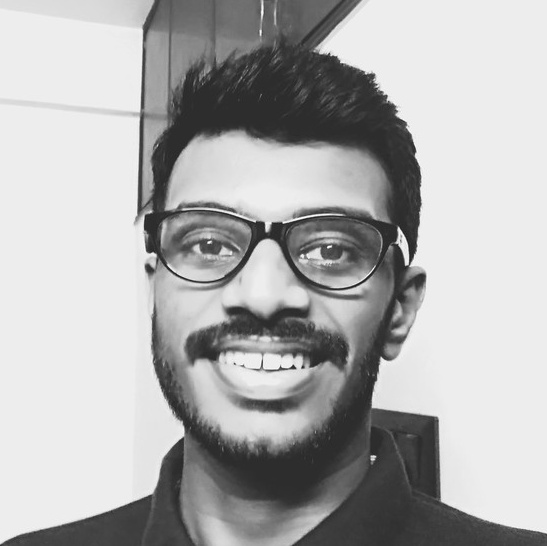
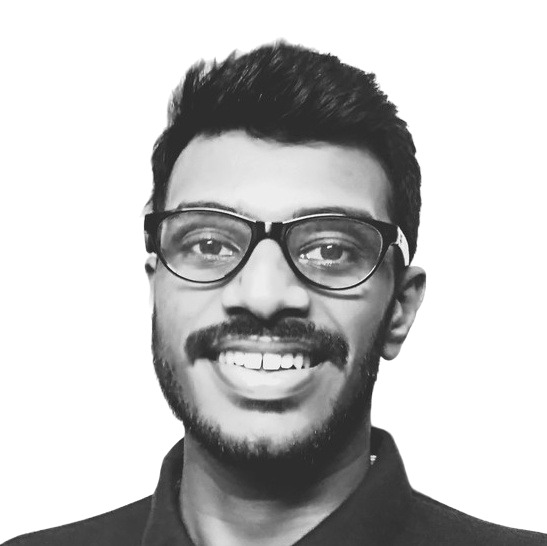
Update website

diff --git a/index.html b/index.html
@@ -1,13 +1,34 @@
 <!DOCTYPE HTML>
 <html lang="en"><head><meta http-equiv="Content-Type" content="text/html; charset=UTF-8">
 
-  <title>Perla Sai Raj Kishore</title>
+  <title>Sai Raj Kishore Perla</title>
   
-  <meta name="author" content="Perla Sai Raj Kishore">
+  <meta name="author" content="Sai Raj Kishore Perla">
   <meta name="viewport" content="width=device-width, initial-scale=1">
   
   <link rel="stylesheet" type="text/css" href="stylesheet.css">
   <link rel="icon" type="image/png" href="images/icon.jpg">
+
+  <!-- Google tag (gtag.js) -->
+  <script async src="https://www.googletagmanager.com/gtag/js?id=G-MSMRCN9C0E"></script>
+  <script>
+    window.dataLayer = window.dataLayer || [];
+    function gtag(){dataLayer.push(arguments);}
+    gtag('js', new Date());
+
+    gtag('config', 'G-MSMRCN9C0E');
+  </script>
+
+  <script>
+    function myFunction(pub_name) {
+        var x = document.getElementById(pub_name);
+        if (x.style.display === 'none') {
+            x.style.display = 'block';
+        } else {
+            x.style.display = 'none';
+        }
+  }
+  </script>
 </head>
 
 <body>
@@ -18,29 +39,30 @@
           <tr style="padding:0px">
             <td style="padding:2.5%;width:63%;vertical-align:middle">
               <p style="text-align:center">
-                <name>Perla Sai Raj Kishore</name>
+                <name>Sai Raj Kishore Perla</name>
                 <br>
-                <font size="3"><br/>Learning to teach machines how to learn.</font>
+                <font size="3"><br/><i>Learning to teach machines how to learn</i></font>
               </p>
               <br/>
               <p align="justify"><font size="3">
-              I am a Master's student at the <a href="https://www.sfu.ca/computing.html" target="_blank"><font size="3">School of Computing Science</font></a>, Simon Fraser University (SFU).
+                I am a Computer Science PhD student at <a href="https://www.sfu.ca/" target="_blank"><font size="3">Simon Fraser University (SFU)</font></a>, supervised by <a href="https://www.cs.sfu.ca/~haoz/" target="_blank"><font size="3">Prof. Hao (Richard) Zhang</font></a> and <a href="https://www.sfu.ca/~amahdavi/Home.html" target="_blank"><font size="3">Prof. Ali Mahdavi-Amiri</font></a>.
+                I also completed my MSc (Thesis) in Computer Science under <a href="https://www.cs.sfu.ca/~haoz/" target="_blank"><font size="3">Prof. Hao (Richard) Zhang</font></a> at SFU.
               </font></p>
               <p align="justify"><font size="3">
-              Before joining SFU, I worked as a Senior Research Engineer at <a href="https://www.staqu.com/" target="_blank"><font size="3">Staqu Technologies</font></a>, where I designed and developed systems that revolved around Computer Vision and Deep Learning. And even earlier, during my bachelor's, I worked with <a href="https://www.isical.ac.in/~ujjwal/" target="_blank"><font size="3">Prof. Ujjwal Bhattacharya</font></a> of <a href="https://www.isical.ac.in/" target="_blank"><font size="3">Indian Statistical Institute (ISI), Kolkata</font></a> and <a href="https://www.iitr.ac.in/departments/CSE/pages/People+Faculty+Partha_Pratim_Roy.html" target="_blank"><font size="3">Prof. Partha Pratim Roy</font></a> of <a href="https://www.iitr.ac.in" target="_blank"><font size="3">Indian Institute of Technology (IIT) Roorkee</font></a> on a variety of Computer Vision research problems.
+                Before joining SFU, I was a Senior Research Engineer at <a href="https://www.staqu.com/" target="_blank"><font size="3">Staqu Technologies</font></a>, where I designed and developed systems using Computer Vision and Deep Learning. And even earlier, during my bachelor's, I worked with <a href="https://www.isical.ac.in/~ujjwal/" target="_blank"><font size="3">Prof. Ujjwal Bhattacharya</font></a> from <a href="https://www.isical.ac.in/" target="_blank"><font size="3">Indian Statistical Institute (ISI), Kolkata</font></a> and <a href="https://cse.iitr.ac.in/~CSE/proy_fcs" target="_blank"><font size="3">Prof. Partha Pratim Roy</font></a> from <a href="https://www.iitr.ac.in" target="_blank"><font size="3">Indian Institute of Technology (IIT) Roorkee</font></a> on various Computer Vision problems.
               </font></p>
               <br>
               <p style="text-align:center">
-                <a href="mailto:sairajkishore13@gmail.com" target="_blank"><font size="3">Email</font></a> &nbsp|&nbsp
-                <a href="https://drive.google.com/file/d/1dwvJ5dMnrE5z3u0MLt-1QdyNL8RfEPQ6/view?usp=sharing" target="_blank">CV</a> &nbsp|&nbsp
-                <!-- <a href="data/JonBarron-bio.txt">Biography</a> &nbsp|&nbsp -->
-                <a href="https://scholar.google.com/citations?user=uYP3cIcAAAAJ&hl=en&authuser=2" target="_blank"><font size="3">Google Scholar</font></a> &nbsp|&nbsp
-                <a href="https://www.linkedin.com/in/sairajkishore/" target="_blank"><font size="3"> LinkedIn </font></a>  &nbsp|&nbsp
-                <a href="https://github.com/sairajk" target="_blank"><font size="3"> GitHub </font></a>
+                <a href="mailto:srp7@sfu.ca" target="_blank"><font size="3">Email</font></a> &nbsp/&nbsp
+                <!-- <a href="https://drive.google.com/file/d/1dwvJ5dMnrE5z3u0MLt-1QdyNL8RfEPQ6/view?usp=sharing" target="_blank">CV</a> &nbsp|&nbsp -->
+                <a href="https://scholar.google.com/citations?user=uYP3cIcAAAAJ&hl=en" target="_blank"><font size="3">Google Scholar</font></a> &nbsp/&nbsp
+                <a href="https://www.linkedin.com/in/sairajkishore/" target="_blank"><font size="3"> LinkedIn </font></a>  &nbsp/&nbsp
+                <a href="https://github.com/sairajk" target="_blank"><font size="3"> GitHub </font></a>  &nbsp/&nbsp
+                <a href="https://twitter.com/sairajk007" target="_blank"><font size="3"> Twitter </font></a>
               </p>
             </td>
-            <td style="padding:2.5%;width:40%;max-width:40%">
-              <a href="images/avatar_2.png" target="_blank"><img style="width:100%;max-width:100%" alt="Profile Photo" src="images/avatar_2.png" class="hoverZoomLink"></a>
+            <td style="padding:2.5%;width:30%;max-width:40%">
+              <a href="images/avatar_2_transparent.jpg" target="_blank"><img style="width:100%;max-width:100%" alt="Profile Photo" src="images/avatar_2_transparent.jpg" class="hoverZoomLink"></a>
             </td>
           </tr>
         </tbody></table>
@@ -52,7 +74,8 @@
             <td style="padding:20px;width:100%;vertical-align:middle;text-align:justify">
               <heading><font size="5">Research Interests</font></heading>
               <p><font size="3">
-                I am interested in Computer Vision, Computer Graphics, and Deep Learning in general. Particularly, understanding the world around from 2D & 3D visual data through systems that can effectively utilize the acquired knowledge and data from other similar tasks and domains, learn from data with limited or no labels, and are robust in diverse real-world scenarios.
+                <!-- I am interested in Computer Vision, Computer Graphics, and Deep Learning in general. Particularly, understanding the world around from 2D & 3D visual data through systems that can effectively utilize the acquired knowledge and data from other similar tasks and domains, learn from data with limited or no labels, and are robust in diverse real-world scenarios. -->
+                I am interested in Computer Vision, Computer Graphics, and Deep Learning in general. 
               </font></p>
             </td>
           </tr>
@@ -68,21 +91,7 @@
           </tr>
         </tbody></table>
 
-        <script>
-          function myFunction(pub_name) {
-              var x = document.getElementById(pub_name);
-              if (x.style.display === 'none') {
-                  x.style.display = 'block';
-              } else {
-                  x.style.display = 'none';
-              }
-        }
-        </script>
-
-
         <table style="width:100%;border:0px;border-spacing:0px;border-collapse:separate;margin-right:auto;margin-left:auto;"><tbody>
-
-
 
           
           <!-- UNDER REVIEW - POSE ESTIMATION -->
@@ -119,6 +128,71 @@
               <p></p>              
             </td>
           </tr> -->
+
+
+          <!-- SIGGRAPH 2024 - TEXTURE TRANSFER -->
+          <tr onmouseout="siggraph24_0_stop()" onmouseover="siggraph24_0_start()">
+            <td style="padding:20px;width:25%;vertical-align:middle">
+              <div class="one">
+                <div class="two" id='siggraph24_0_image'><img src='images/Pub-SIG24_textransfer_re.jpg'></div>
+                <img src='images/Pub-SIG24_textransfer_re.jpg'>
+              </div>
+              <script type="text/javascript">
+                function siggraph24_0_start() {
+                  document.getElementById('siggraph24_0_image').style.opacity = "1";
+                }
+
+                function siggraph24_0_stop() {
+                  document.getElementById('siggraph24_0_image').style.opacity = "0";
+                }
+                siggraph24_0_stop()
+              </script>
+            </td>
+            <td style="padding:20px;width:75%;vertical-align:middle">
+              <a href="" target="_blank">
+                <papertitle><font size="3">EASI-Tex: Edge-Aware Mesh Texturing from Single Image</font></papertitle>
+              </a>
+              <br>
+              <font size="3">
+              <strong><font size="3">Sai Raj Kishore Perla</font></strong>,
+              <a href="https://yizhiwang96.github.io/" target="_blank"><font size="3">Yizhi Wang</font></a>, 
+              <a href="https://www.sfu.ca/~amahdavi/" target="_blank"><font size="3">Ali Mahdavi-Amiri</font></a>, 
+              <a href="https://www.cs.sfu.ca/~haoz/" target="_blank"><font size="3">Hao (Richard) Zhang</font></a>, 
+              <br>
+              <em>SIGGRAPH (Journal)</em>, 2024
+              </font>
+              <br>
+              <p></p>
+              <a href="javascript:void(0);" onclick="myFunction('siggraph24_0_abs')"><font size="3">Abstract</font></a> /
+              <a href="https://github.com/sairajk/easi-tex" target="_blank"><font size="3">Code</font></a> /
+              <a href="" target="_blank"><font size="3">arXiv</font></a> /
+              <a href="" target="_blank"><font size="3">Project Page</font></a> /
+              <a href="javascript:void(0);" onclick="myFunction('siggraph24_0_bib')"><font size="3">BibTex</font></a>
+              <p></p>
+              <div id="siggraph24_0_abs" style="display:none; text-align:justify;min-width:350px;"><font size="3">
+                <em>
+                  We present a novel approach for single-image mesh texturing, which employs a diffusion model with judicious conditioning to seamlessly transfer an object's texture from a single RGB image to a given 3D mesh object. We do not assume that the two objects belong to the same category, and even if they do, there can be significant discrepancies in their geometry and part proportions. Our method aims to rectify the discrepancies by conditioning a pre-trained Stable Diffusion generator with edges describing the mesh through ControlNet, and features extracted from the input image using IP-Adapter to generate textures that respect the underlying geometry of the mesh and the input texture without any optimization or training. We also introduce Image Inversion, a novel technique to quickly personalize the diffusion model for a single concept using a single image, for cases where the pre-trained IP-Adapter falls short in capturing all the details from the input image faithfully. Experimental results demonstrate the efficiency and effectiveness of our edge-aware single-image mesh texturing approach, coined EASI-Tex, in preserving the details of the input texture on diverse 3D objects, while respecting their geometry. 
+                </em>
+              </font></div>
+              <div id="siggraph24_0_bib" style="font-family:Courier;display:none;min-width:350px;"><font size="2">
+                <br>
+                @article{perla2024easitex,<br>
+                  &emsp;title={EASI-Tex: Edge-Aware Mesh Texturing from Single Image},<br>
+                  &emsp;author = {Perla, Sai Raj Kishore and Wang, Yizhi and Mahdavi-Amiri, Ali and Zhang, Hao},<br>
+                  &emsp;year = {2024},<br>
+                  &emsp;issue_date = {July 2024},<br>
+                  &emsp;publisher = {Association for Computing Machinery},<br>
+                  &emsp;volume = {43},<br>
+                  &emsp;number = {4},<br>
+                  &emsp;url = {https://doi.org/10.1145/3658222},<br>
+                  &emsp;doi = {10.1145/3658222},<br>
+                  &emsp;journal = {ACM Transactions on Graphics (TOG)},<br>
+                  &emsp;articleno = {40},<br>
+                  &emsp;numpages = {11},<br>
+                }
+              </font></div>
+            </td>
+          </tr>
 
 
           <!-- ICIP 2020 - POSE ESTIMATION -->
@@ -177,9 +251,6 @@
               </font></div>
             </td>
           </tr>
-
-
-
 
 
           <!-- BMVC 2019 - POSE ESTIMATION -->
@@ -746,8 +817,8 @@
             <td style="padding:0px">
               <br>
               <p style="text-align:center;font-size:small;">
-                Template credits : 
-                <a href="https://jonbarron.info/" target="_blank">Dr. Jon Barron</a>
+                Template credits: 
+                <a href="https://jonbarron.info/" target="_blank">Jon Barron</a>
               </p>
             </td>
           </tr>

diff --git a/resize_image.py b/resize_image.py
@@ -11,6 +11,6 @@ def resize(img_path, target_size):
 
 
 if __name__ == "__main__":
-    img_path = "./test_img.png"
+    img_path = "./images/Pub-SIG24_textransfer.jpg"
     target_size = (160, 160)
     resize(img_path, target_size)
